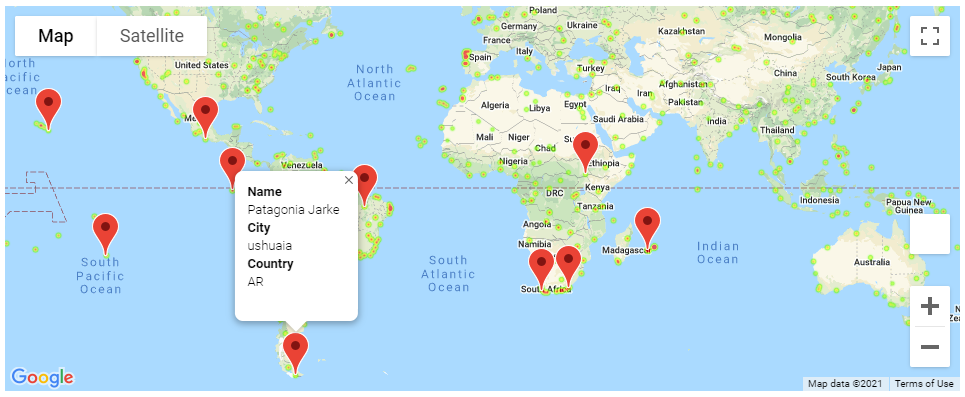
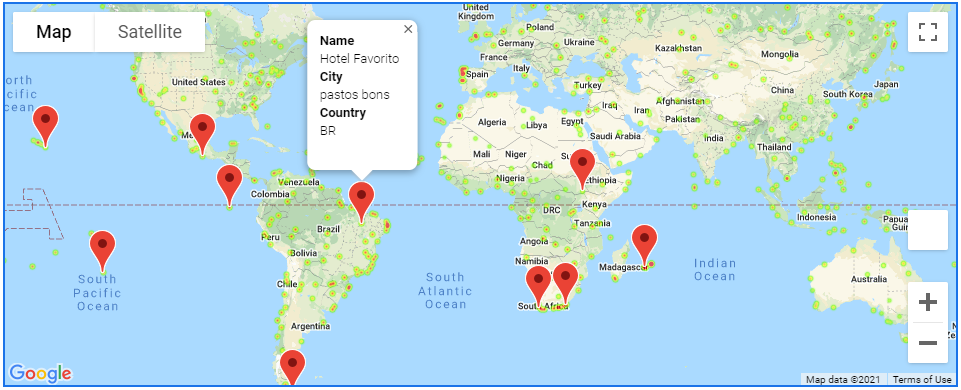
finalize notebooks and readme file

diff --git a/README.md b/README.md
@@ -1,2 +1,55 @@
-# python-api-challenge
-Python API Challenge
+# Python API Challenge
+
+![Beach](image/beach.jpg)
+
+## WeatherPy 
+
+### City Data
+Identifies over 500 cities based on randomly generated latitude and longitude coordinates
+
+Gather Weather Data
+* Performs a weather check on each city using the OpenWeatherMap API
+* Returns a list of each city as it's city weather data is gathered
+
+Save Results
+
+Remove cities with humidity over 100%
+
+### Latitude Analyses
+Includes the following Scatter Plots
+* Temperature vs. Latitude Plot
+* Humidity vs. Latitude Plot
+* Cloudiness vs. Latitude Plot
+* Wind Speed vs. Latitude Plot
+
+### Linear Regression
+Includes the following Linear Regression analyses
+* Northern Hemisphere - Max Temp vs. Latitude Linear Regression
+* Southern Hemisphere - Max Temp vs. Latitude Linear Regression
+* Northern Hemisphere - Humidity (%) vs. Latitude Linear Regression
+* Southern Hemisphere - Humidity (%) vs. Latitude Linear Regression
+* Northern Hemisphere - Cloudiness (%) vs. Latitude Linear Regression
+* Southern Hemisphere - Cloudiness (%) vs. Latitude Linear Regression
+* Northern Hemisphere - Wind Speed (mph) vs. Latitude Linear Regression
+* Southern Hemisphere - Wind Speed (mph) vs. Latitude Linear Regression
+
+### Observations
+Identifies 3 insights based on the analyzed data. 
+
+## VacationPy 
+ 
+### City Weather Data 
+View cities and their related weather
+
+### Humidity Heatmap
+View cities and their related humidity intensity using gmaps
+
+### Vacation Weather Data
+View city weather data based on the following criteria
+* Max Temp is greater than or equal to 65 degrees Fahrenheit
+* Max Temp is less than or equal to 80 degrees Fahrenheit
+* Wind Speed is less than or equal to 15mph
+* Humidity is less than or equal to 100%
+
+### Hotel Map
+Indicates hotel locations (using gmaps) for 10 of the cities that meet the vacation criteria
